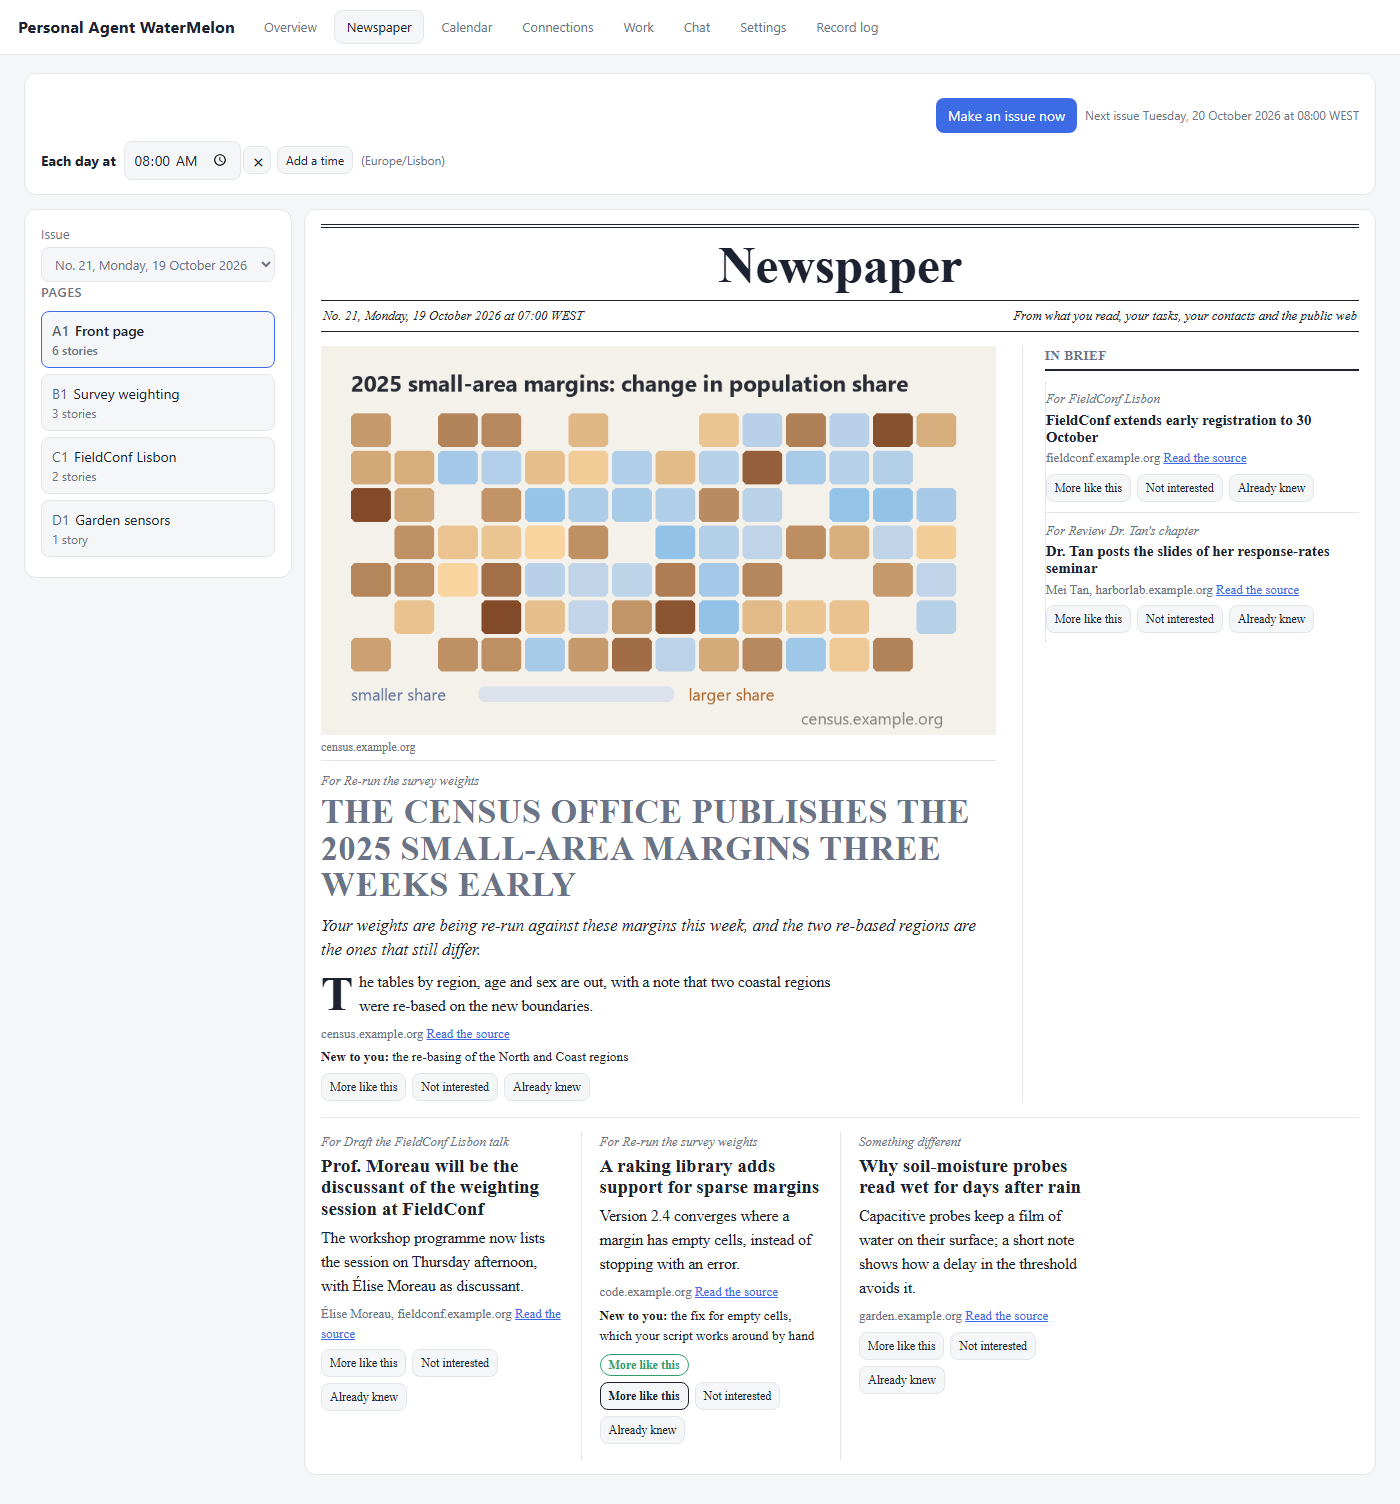
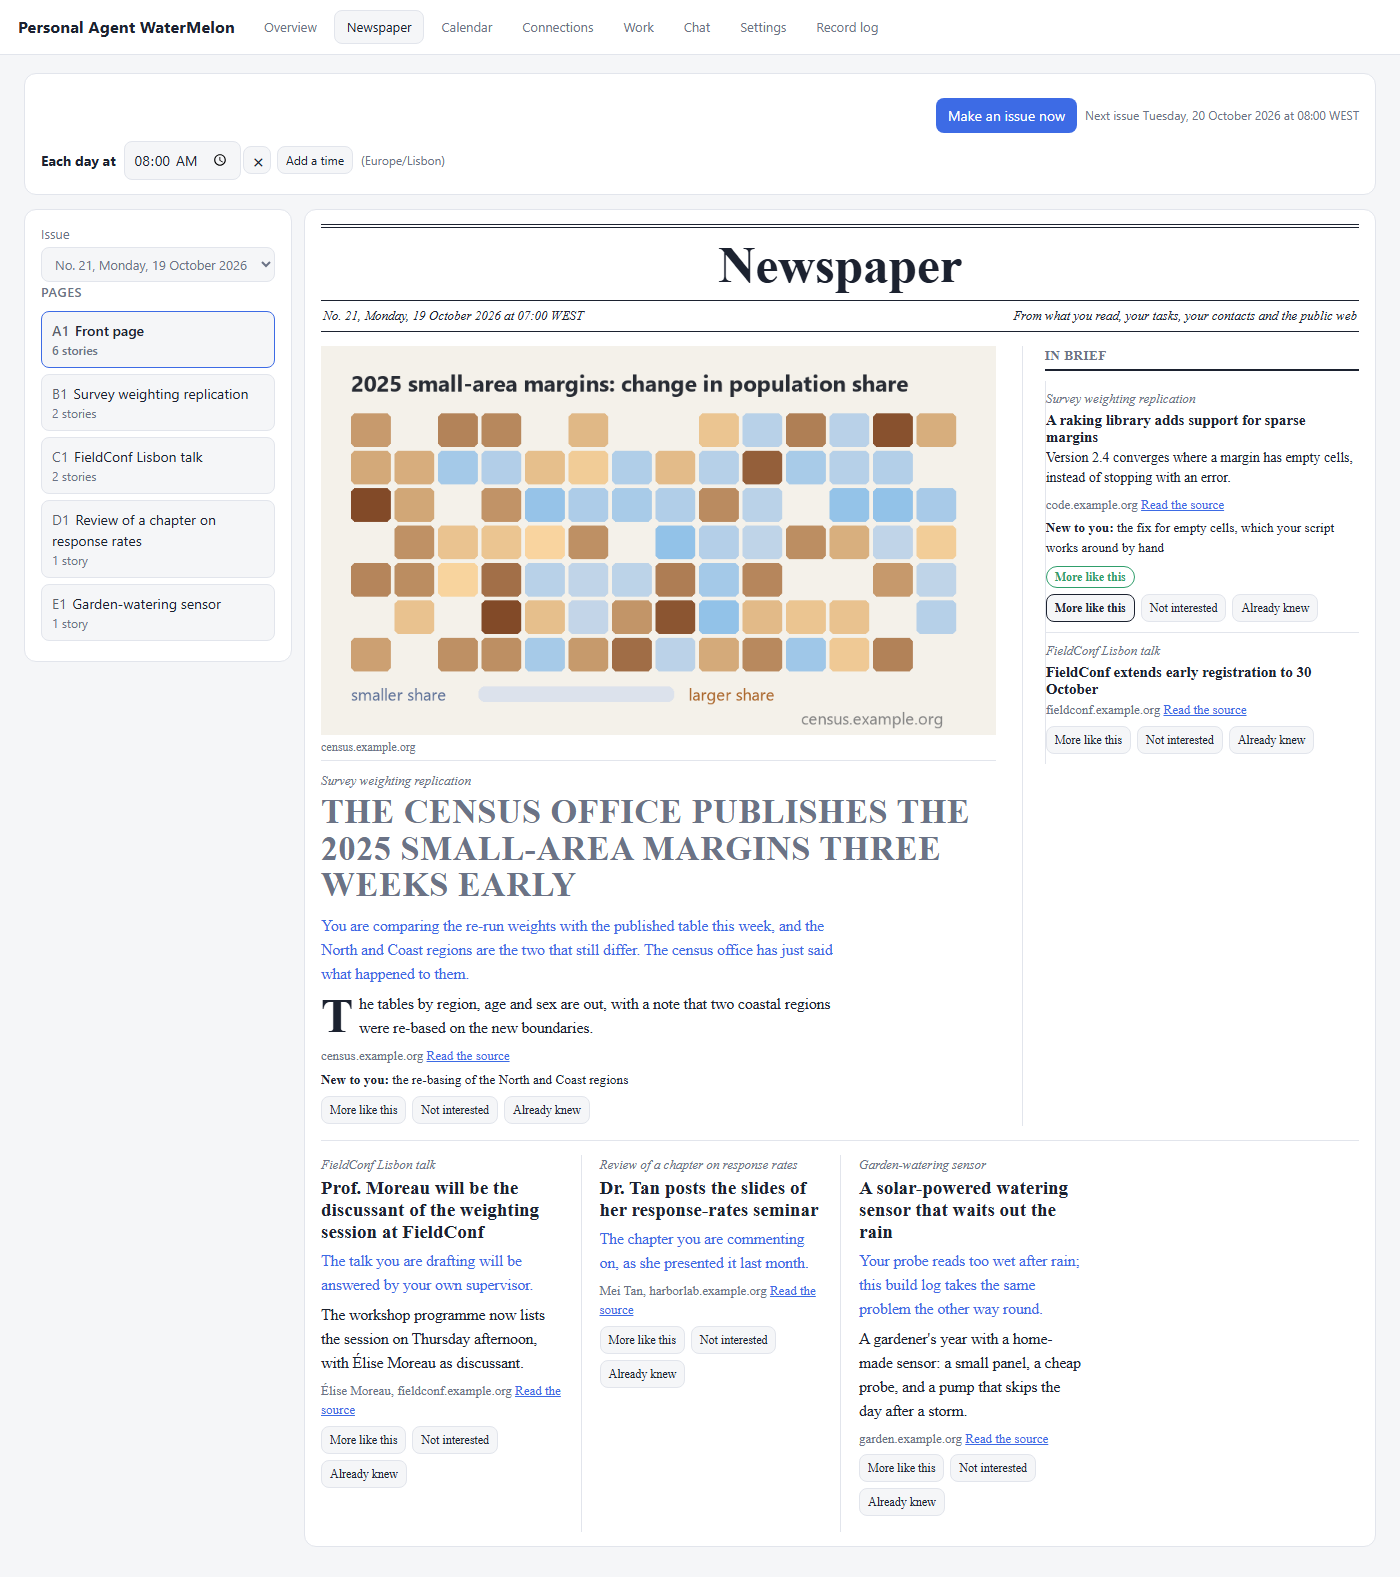
README: Newspaper figure with a page per project, Overview and Work at the same times, the data folder's new name; Settings texts for Connections and Newspaper as they are now

diff --git a/personalized_agent/common/modules.py b/personalized_agent/common/modules.py
@@ -31,17 +31,18 @@ MODULES: List[Dict[str, str]] = [
      "off": "The agent puts nothing on your calendar and closes nothing; reminders you "
             "added still ring. What waits for a time is no longer looked after."},
     {"key": "connections", "setting": "module_connections_enabled", "name": "Connections",
-     "what": "PASSIVE: the agent heartbeat finds the people in what is on your screen and "
-             "adds or updates them in your contacts; the connection lessons learned. (Looking "
-             "your contacts up on the web is ACTIVE, and Newspaper's.)",
+     "what": "The agent heartbeat finds the people in what is on your screen and adds or "
+             "updates them in your contacts; the connection lessons learned. (Looking your "
+             "contacts up on the web is Newspaper's.)",
      "off": "Contacts are no longer added or updated from what is on your screen. Your "
             "contacts are still looked up on the web while Newspaper is on - "
             "turn it off too to stop that."},
     {"key": "recommend", "setting": "module_recommend_enabled",
      "name": "Newspaper",
-     "what": "What you read kept as a log, and an issue at the times you chose: your topics "
-             "searched on the web, and - ACTIVELY - your contacts looked up on the web, their "
-             "public profiles filled in and their news found.",
+     "what": "What you read kept as a log, and an issue at the times you chose: a page for "
+             "each project you are working on and for what you have been reading, each "
+             "searched on the web; and your contacts looked up on the web, their public "
+             "profiles filled in and their news found.",
      "off": "No issue is made and nothing read is kept; your contacts are no longer looked "
             "up on the web (from your screen they still are, while Connections is on). "
             "\"Make an issue now\" still works."},

diff --git a/tests/test_modules.py b/tests/test_modules.py
@@ -66,8 +66,9 @@ class WhichModuleTests(unittest.TestCase):
         for one in modules.MODULES:
             self.assertTrue(one["what"] and one["off"], one["key"])
         # Passive and active looking after contacts, said apart.
-        self.assertIn("PASSIVE", modules.BY_KEY["connections"]["what"])
-        self.assertIn("ACTIVELY", modules.BY_KEY["recommend"]["what"])
+        self.assertIn("on your screen", modules.BY_KEY["connections"]["what"])
+        self.assertIn("on the web is Newspaper's", modules.BY_KEY["connections"]["what"])
+        self.assertIn("contacts looked up on the web", modules.BY_KEY["recommend"]["what"])
         self.assertIn("turn it off too", modules.BY_KEY["connections"]["off"])
 
 

diff --git a/README.md b/README.md
@@ -59,9 +59,10 @@ and goes only to the model you choose.
 applications, documents and web pages you work with, only the sources you
 leave switched on. Every 15 minutes it writes down, in a sentence or two,
 what you were doing; every 12 hours it writes those notes up as the tasks
-you did, and groups the week's tasks into the projects they serve. What it learns is stored only on your computer, as
-plain files you can open, and sent only to the model you choose
-([Your privacy](#your-privacy)).
+you did, groups them into the projects they serve, and follows each project
+over time, under a name the model gives it. What it learns is stored only on
+your computer, as plain files you can open, and sent only to the model you
+choose ([Your privacy](#your-privacy)).
 
 **An Overview of your work.** Your projects as bars over time, with how
 long you worked on each, and a **To do** list you keep yourself, each with a
@@ -147,8 +148,8 @@ current projects and interests, chosen to tell you something you do not already
 know. *More like this* and *Not interested* tune it.
 
 <p align="center">
-  <img src="docs/images/recommendation.png" width="100%" alt="Newspaper: a newspaper front page with a lead story, In brief, and pages per topic"><br>
-  <sub>Today's issue: the front page, a page for each topic, why each story is there and what in it is new to you.</sub>
+  <img src="docs/images/recommendation.png" width="100%" alt="Newspaper: a newspaper front page with a lead story, In brief, and a page for each project"><br>
+  <sub>Today's issue: the front page, a page for each project, how each story ties to your work and what in it is new to you.</sub>
 </p>
 
 **Chat.** Ask it about your work, or ask it to do something. Files it makes
@@ -356,7 +357,7 @@ program then offers you the releases that come after it.
 
 | Version | Published | Status | Downloads |
 | --- | --- | --- | --- |
-| [v0.2.0](https://github.com/fhbzc/Personal-Agent-WaterMelon/releases/tag/v0.2.0) | 2026-10-18 | pre-release | above, or on [its release page](https://github.com/fhbzc/Personal-Agent-WaterMelon/releases/tag/v0.2.0) |
+| [v0.2.0](https://github.com/fhbzc/Personal-Agent-WaterMelon/releases/tag/v0.2.0) | 2026-10-19 | pre-release | above, or on [its release page](https://github.com/fhbzc/Personal-Agent-WaterMelon/releases/tag/v0.2.0) |
 | [v0.1.0](https://github.com/fhbzc/Personal-Agent-WaterMelon/releases/tag/v0.1.0) | 2026-10-16 | release (the latest) | [Windows](https://github.com/fhbzc/Personal-Agent-WaterMelon/releases/download/v0.1.0/PersonalizedAgent-Setup-windows-x64.exe) · [macOS](https://github.com/fhbzc/Personal-Agent-WaterMelon/releases/download/v0.1.0/PersonalizedAgent-macos.dmg) · [Linux](https://github.com/fhbzc/Personal-Agent-WaterMelon/releases/download/v0.1.0/PersonalizedAgent-linux-x86_64.deb) · [all files](https://github.com/fhbzc/Personal-Agent-WaterMelon/releases/tag/v0.1.0) |
 
 Every release also has **`SHA256SUMS.txt`**, the checksum of each file; see
@@ -590,7 +591,7 @@ has it.
 The newest version first. Each earlier version links to its release, where
 everything it changed is written down.
 
-### [v0.2.0](https://github.com/fhbzc/Personal-Agent-WaterMelon/releases/tag/v0.2.0) (2026-10-18, a [pre-release](#pre-releases))
+### [v0.2.0](https://github.com/fhbzc/Personal-Agent-WaterMelon/releases/tag/v0.2.0) (2026-10-19, a [pre-release](#pre-releases))
 
 - **Tasks and projects.** Each time the agent looks at what you have done
   (every 12 hours, or when you press Update tasks now), it writes down the
